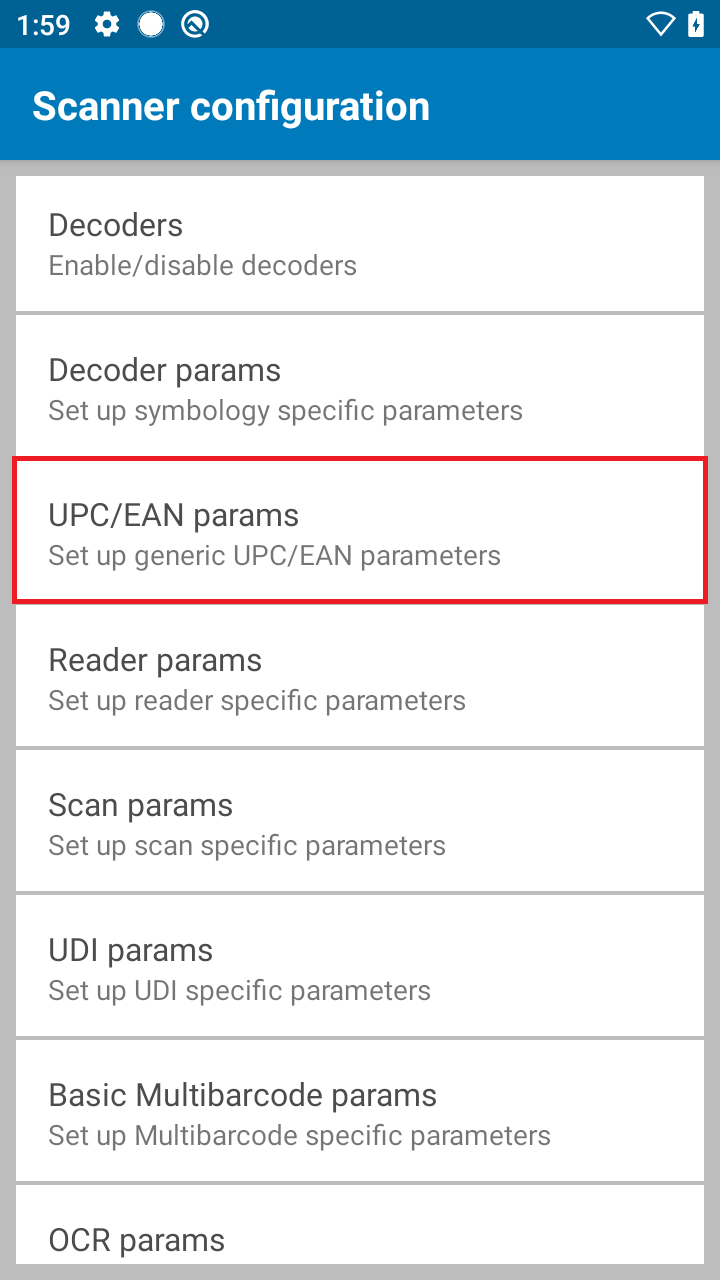
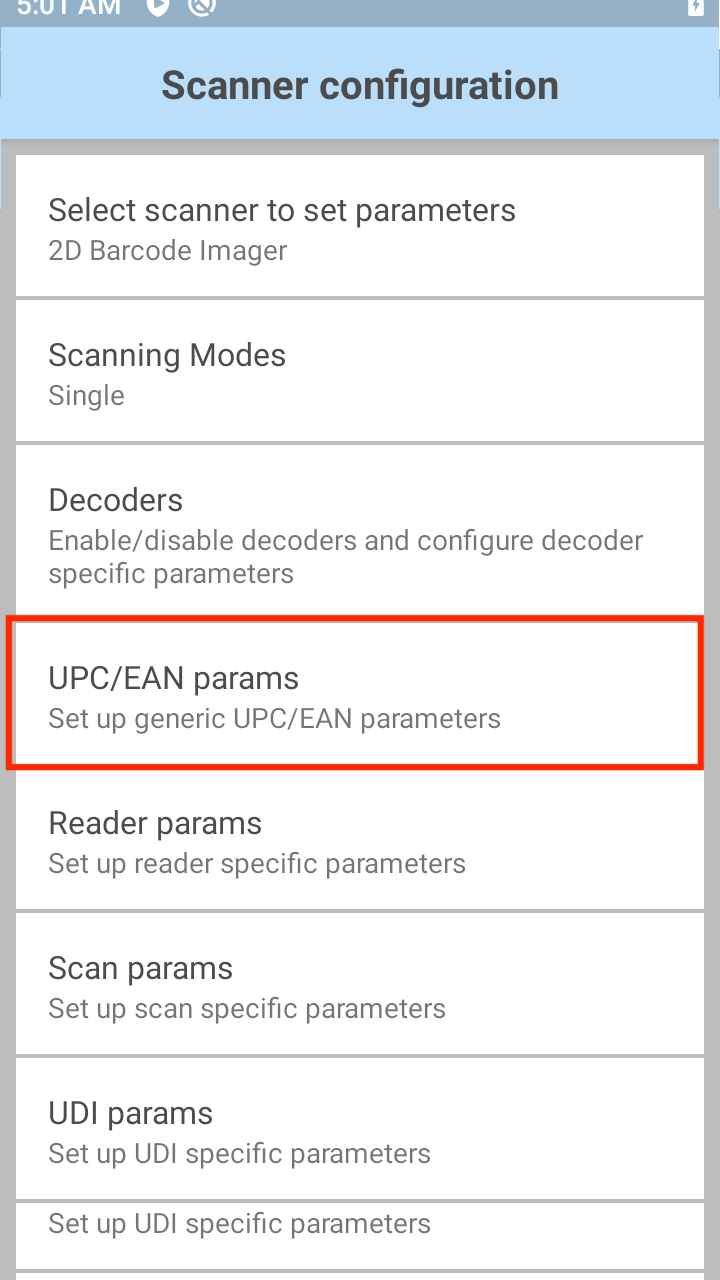
[TUT-47148] DW - SPR41734-Modeify EAN8, Decoder Params, and UPC/EAN Params

Changed region(s): [[0.0, 0.0, 1.0, 0.8125], [0.0306, 0.8438, 0.9778, 1.0]]

diff --git a/src/datawedge/8-2/guide/input/barcode/index.md b/src/datawedge/8-2/guide/input/barcode/index.md
@@ -485,7 +485,7 @@ cellspacing="0" cellpadding="4">
 <tr>
 <td align="left" valign="top"><p class="table"><a href="#dotcode">DotCode</a></p></td>
 <td align="left" valign="top"><p class="table"><a href="#dutchpostal">Dutch Postal</a></p></td>
-<td align="left" valign="top"><p class="table"><a href="#ean8">EAN-8</a><sup>*</sup></p></td>
+<td align="left" valign="top"><p class="table"><!--<a href="#ean8">EAN-8</a><sup>*</sup>--></p></td>
 </tr>
 <tr>
 <td align="left" valign="top"><p class="table">EAN-13<sup>*</sup></p></td>
@@ -574,13 +574,14 @@ A list of Decoders appears similar to the image in Step 2.
 
 **To edit Decoder parameters**:
 
-&#49;. **From the Profile being edited, tap Decoder params** as highlighted below.<br>
+&#49;. **From the Profile being edited, tap Decoders.**<br>
 A list of Decoders appears similar to the image in Step 2, below.
-<img style="height:350px" src="decoder_params.png"/>
+<img style="height:350px" src="decoders-selection.png"/>
 <br>
 
-&#50;. **From the Decoder list, tap a Decoder to edit its parameters**. 
-<img style="height:350px" src="edit_decoder_params.png"/>
+&#50;. **From the Decoder list, tap a decoder to edit its parameters.** <br>
+If a decoder has no parameters, a checkbox is displayed to enable/disable the decoder.
+<img style="height:350px" src="decoders.png"/>
 <br>
 
 -----
@@ -667,13 +668,13 @@ _&#42; See **[Decode Lengths section](#decodelengths)**, below_
 * **Mod-10-10 -** Both check digits are MOD 10.
 
 **Report Check Digit -** Transmit MSI data with or without the check digit. A check in this checkbox will send MSI data with a check digit.
-
+<!--
 ------
 
 ### EAN8
 
 **Convert EAN8 To EAN13 -** Converts EAN8 data to EAN 13 format. A check in the checkbox enables this conversion.
-
+// Remove per TUT-47148 -->
 ------
 
 ### Codabar
@@ -1168,6 +1169,33 @@ The UPC/EAN Parameter allows configuration of parameters that apply to more than
 <img style="height:350px" src="upc_params.png"/>
 <br>
 
+**Convert DataBar to UPC EAN -** If enabled, converts DataBar barcodes to UPC/EAN format. For this setting to work UPC/EAN symbologies must be enabled. 
+
+**UPC Reduced Quiet Zone -** The quiet zone is the blank space on either side of a bar code that indicates where the symbology begins and ends. If enabled, it prevents the reader from scanning irrelevant UPC information in the quiet zone.
+
+**Bookland -** When enabled, select a Bookland Format from the list below.  
+
+**Bookland Format -** When Bookland is enabled, permits selection of an option for Bookland data:
+
+* **Format ISBN-10 -** The scanner reports Bookland data starting with 978 in traditional 10-digit format with the special Bookland check digit for backward-compatibility. Data starting with 979 is not considered Bookland in this mode.
+
+* **Format ISBN-13 -** The scanner reports Bookland data (starting with either 978 or 979) as EAN-13 in 13-digit format to meet the 2007 ISBN-13 protocol.
+
+* **Convert GS1 To UPC EAN -** If this is set it converts GS1 barcodes to UPC/EAN format. For this setting to work UPC/EAN symbologies must be enabled. A check in the checkbox indicates that the option is enabled.
+
+**Coupon -** Enables Coupon code decoding. To successfully decode any Coupon codes, all appropriate decoders must be enabled. 
+
+**Coupon Report Mode -** Traditional coupon symbols are composed of two barcodes: UPC/EAN and Code 128. A new coupon symbol is composed of a single Data Expanded barcode. The new format offers more options for purchase values (up to $999.999) and supports complex discount offers as a second purchase requirement. An interim coupon symbol also exists that contain both types of barcodes: UPC/EAN and Databar Expanded. This format accommodates both retailers that do not recognize or use the additional information included in the new coupon symbol, as well as those who can process new coupon symbols.
+* **Old Coupon Report Mode -** Scanning an old coupon symbol reports both UPC and Code 128. Scanning an interim coupon symbol reports UPC. Scanning a new coupon symbol reports nothing (no decode).
+* **New Coupon Report Mode -** Scanning an old coupon symbol reports either UPC or Code 128. Scanning an interim coupon symbol or a new coupon symbol reports Databar Expanded.
+* **Both Coupon Report Modes -** Scanning an old coupon symbol reports both UPC and Code 128. Scanning an interim coupon symbol or a new coupon symbol reports Databar Expanded (default).
+
+**EAN Zero Extend -** If enabled, adds five leading zeros to decoded EAN-8 barcodes to make them compatible in length to EAN-13 barcodes.
+
+**Linear Decode -** Not in use. Deprecated.
+
+**Retry Count -** Retry count for auto-discriminating for supplementals. Possible values are 2 to 20. Note that this flag is only considered if Supplemental Mode is set to one of the following values: Supplementals Auto, Supplementals Smart, Supplementals 378-379, Supplementals 978-979, Supplementals 977 or Supplementals 414-419-434-439 (2 to 20).
+
 **Security Level -** The scanner offers four levels of decode security for UPC/EAN barcodes. As the quality of barcodes decreases, implementing an increased level of security will compensate and help improve decoding success. There is an inverse relationship between scanner aggressiveness and security. Zebra recommends choosing carefully the level of security necessary for any given application: 
 
 * **Level 0 -** This setting allows the scanner to operate fastest, while providing sufficient security in decoding "in-spec" UPC/EAN barcodes.
@@ -1182,54 +1210,38 @@ The UPC/EAN Parameter allows configuration of parameters that apply to more than
 
 **Supplemental5 -** A check in the checkbox enables this option.
 
------
+**Supplemental Mode -** Select one of the following:
 
-### Supplemental Mode
+* **No Supplementals -** The scanner is presented with a UPC/EAN plus supplemental symbol, the scanner decodes UPC/EAN and ignores the supplemental characters.
 
-**No Supplementals -** The scanner is presented with a UPC/EAN plus supplemental symbol, the scanner decodes UPC/EAN and ignores the supplemental characters.
+* **Supplemental Always -** The scanner decodes only UPC/EAN symbols with supplemental characters, and ignores symbols without supplementals.
 
-**Supplemental Always -** The scanner decodes only UPC/EAN symbols with supplemental characters, and ignores symbols without supplementals.
+* **Supplemental Auto -** The scanner decodes UPC/EAN symbols with supplemental characters immediately. If the symbol does not have a supplemental, the scanner must decode the barcode the number of times set via UPC/EAN Supplemental Redundancy before transmitting its data to confirm that there is no supplemental.
 
-**Supplemental Auto -** The scanner decodes UPC/EAN symbols with supplemental characters immediately. If the symbol does not have a supplemental, the scanner must decode the barcode the number of times set via UPC/EAN Supplemental Redundancy before transmitting its data to confirm that there is no supplemental.
+* **Supplemental Smart -** Enables smart supplementals. In this mode, the decoder returns the decoded value of the main block immediately unless it belongs to one of the following supplemental types: <br>
+&nbsp;&nbsp;&nbsp;&nbsp;&nbsp;◦ 378<br>
+&nbsp;&nbsp;&nbsp;&nbsp;&nbsp;◦ 379<br>
+&nbsp;&nbsp;&nbsp;&nbsp;&nbsp;◦ 977<br>
+&nbsp;&nbsp;&nbsp;&nbsp;&nbsp;◦ 978<br>
+&nbsp;&nbsp;&nbsp;&nbsp;&nbsp;◦ 979<br>
+&nbsp;&nbsp;&nbsp;&nbsp;&nbsp;◦ 414<br>
+&nbsp;&nbsp;&nbsp;&nbsp;&nbsp;◦ 419<br>
+&nbsp;&nbsp;&nbsp;&nbsp;&nbsp;◦ 434<br>
+&nbsp;&nbsp;&nbsp;&nbsp;&nbsp;◦ 439<br>
 
-**Supplemental Smart -** Enables smart supplementals. In this mode, the decoder returns the decoded value of the main block immediately unless it belongs to one of the following supplemental types: 
-* 378
-* 379
-* 977
-* 978
-* 979
-* 414
-* 419
-* 434
-* 439
+    If the barcode is preceded by one of the prefixes above, the image is searched more aggressively for a supplemental and attempts to scan it. If the supplemental scanning fails, only the main barcode is returned.
 
-If the barcode is preceded by one of the prefixes above, the image is searched more aggressively for a supplemental and attempts to scan it. If the supplemental scanning fails, only the main barcode is returned.
+* **Supplemental 378-379 -** Enables (auto-discriminate) supplemental for UPC/EAN codes starting with 378 or 379. Disables reading of supplementals for any other UPC/EAN barcode not starting with 378 or 379. Tries to scan the supplemental if present. If the supplemental scanning fails, only the main barcode is returned.
 
-**Supplemental 378-379 -** Enables (auto-discriminate) supplemental for UPC/EAN codes starting with 378 or 379. Disables reading of supplementals for any other UPC/EAN barcode not starting with 378 or 379. Tries to scan the supplemental if present. If the supplemental scanning fails, only the main barcode is returned.
+* **Supplemental 978-979 -** Enables (auto-discriminate) supplemental for UPC/EAN codes starting with 978 or 979. Disables reading of supplementals for another UPC/EAN barcode not starting with 978 or 979. Tries to scan the supplemental if present. If the supplemental scanning fails, only then the main barcode is returned.
 
-**Supplemental 978-979 -** Enables (auto-discriminate) supplemental for UPC/EAN codes starting with 978 or 979. Disables reading of supplementals for another UPC/EAN barcode not starting with 978 or 979. Tries to scan the supplemental if present. If the supplemental scanning fails, only then the main barcode is returned.
+* **Supplemental 414-419-434-439 -** Enables (auto-discriminate) supplemental for UPC/EAN codes starting with 414, 419, 434 or 439. Disables reading of supplementals for another UPC/EAN barcode not starting with 414, 419, 434 or 439. Tries to scan the supplemental if present. If the supplemental scanning fails, only the main barcode is returned.
 
-**Supplemental 414-419-434-439 -** Enables (auto-discriminate) supplemental for UPC/EAN codes starting with 414, 419, 434 or 439. Disables reading of supplementals for another UPC/EAN barcode not starting with 414, 419, 434 or 439. Tries to scan the supplemental if present. If the supplemental scanning fails, only the main barcode is returned.
+* **Supplemental 977 -** Enables (auto-discriminate) supplemental for UPC/EAN codes starting with 977. Disables reading of supplementals for another UPC/EAN barcode not starting with 977. Tries to scan the supplemental if present. If the supplemental scanning fails, only the main barcode is returned.
 
-**Supplemental 977 -** Enables (auto-discriminate) supplemental for UPC/EAN codes starting with 977. Disables reading of supplementals for another UPC/EAN barcode not starting with 977. Tries to scan the supplemental if present. If the supplemental scanning fails, only the main barcode is returned.
-
-**Retry Count -** Retry count for auto-discriminating for supplementals. Possible values are 2 to 20. Note that this flag is only considered if Supplemental Mode is set to one of the following values: Supplementals Auto, Supplementals Smart, Supplementals 378-379, Supplementals 978-979, Supplementals 977 or Supplementals 414-419-434-439 (2 to 20).
-
+<!--
 **Random Check Digit -** Enables random weight check digit verification. 
-
-**Linear Decode -** Not in use. Deprecated.
-
-**Coupon -** Enables Coupon code decoding. To successfully decode any Coupon codes, all appropriate decoders must be enabled. 
-
-**Bookland -** When enabled, select a Bookland Format from the list below.  
-
-**Bookland Format -** When Bookland is enabled, permits selection of an option for Bookland data:
-
-* **Format ISBN-10 -** The scanner reports Bookland data starting with 978 in traditional 10-digit format with the special Bookland check digit for backward-compatibility. Data starting with 979 is not considered Bookland in this mode.
-
-* **Format ISBN-13 -** The scanner reports Bookland data (starting with either 978 or 979) as EAN-13 in 13-digit format to meet the 2007 ISBN-13 protocol.
-
-* **Convert GS1 To UPC EAN -** If this is set it converts GS1 barcodes to UPC/EAN format. For this setting to work UPC/EAN symbologies must be enabled. A check in the checkbox indicates that the option is enabled.
+-->
 
 -----
 

diff --git a/src/datawedge/8-0/guide/input/barcode/index.md b/src/datawedge/8-0/guide/input/barcode/index.md
@@ -410,13 +410,14 @@ A list of Decoders appears similar to the image in Step 2.
 
 **To edit Decoder parameters**:
 
-&#49;. **From the Profile being edited, tap Decoder params** as highlighted below.<br>
+&#49;. **From the Profile being edited, tap Decoders.**<br>
 A list of Decoders appears similar to the image in Step 2, below.
-<img style="height:350px" src="decoder_params.png"/>
+<img style="height:350px" src="decoders-selection.png"/>
 <br>
 
-&#50;. **From the Decoder list, tap a Decoder to edit its parameters**. 
-<img style="height:350px" src="edit_decoder_params.png"/>
+&#50;. **From the Decoder list, tap a decoder to edit its parameters.** <br>
+If a decoder has no parameters, a checkbox is displayed to enable/disable the decoder.
+<img style="height:350px" src="decoders.png"/>
 <br>
 
 -----

diff --git a/src/datawedge/8-1/guide/input/barcode/index.md b/src/datawedge/8-1/guide/input/barcode/index.md
@@ -450,13 +450,14 @@ A list of Decoders appears similar to the image in Step 2.
 
 **To edit Decoder parameters**:
 
-&#49;. **From the Profile being edited, tap Decoder params** as highlighted below.<br>
+&#49;. **From the Profile being edited, tap Decoders.**<br>
 A list of Decoders appears similar to the image in Step 2, below.
-<img style="height:350px" src="decoder_params.png"/>
+<img style="height:350px" src="decoders-selection.png"/>
 <br>
 
-&#50;. **From the Decoder list, tap a Decoder to edit its parameters**. 
-<img style="height:350px" src="edit_decoder_params.png"/>
+&#50;. **From the Decoder list, tap a decoder to edit its parameters.**<br>
+If a decoder has no parameters, a checkbox is displayed to enable/disable the decoder.
+<img style="height:350px" src="decoders.png"/>
 <br>
 
 -----
